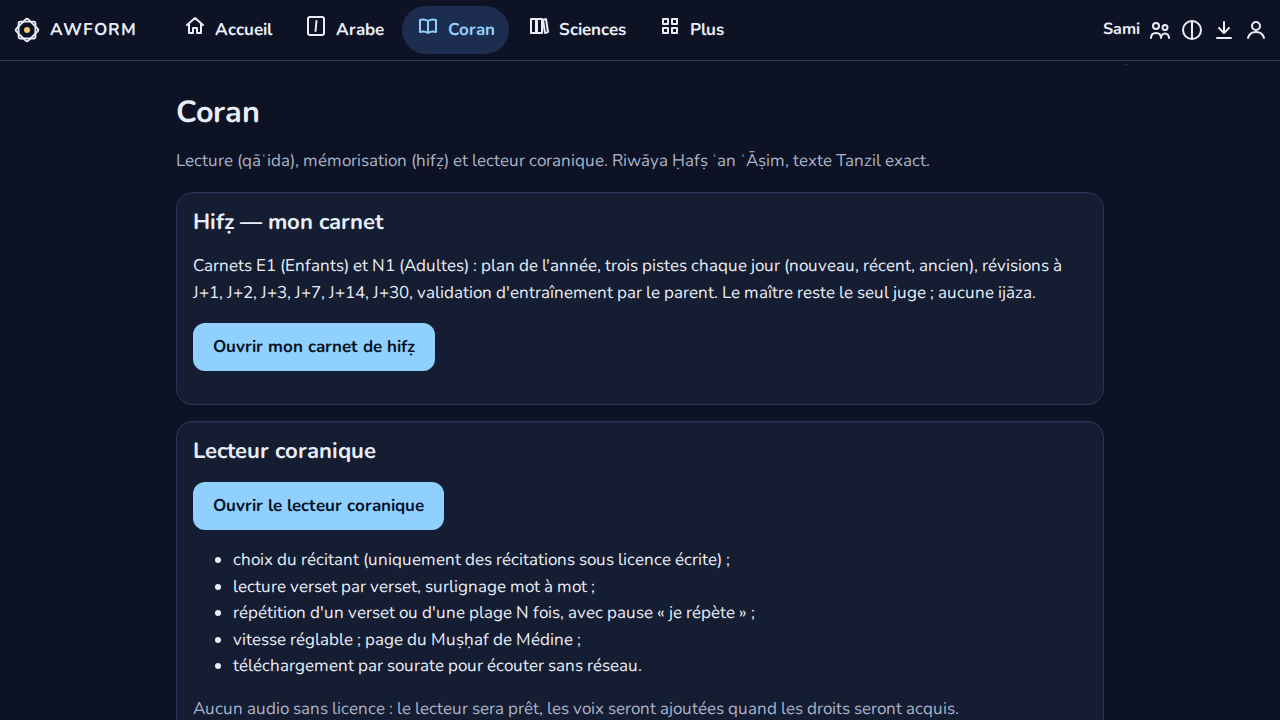
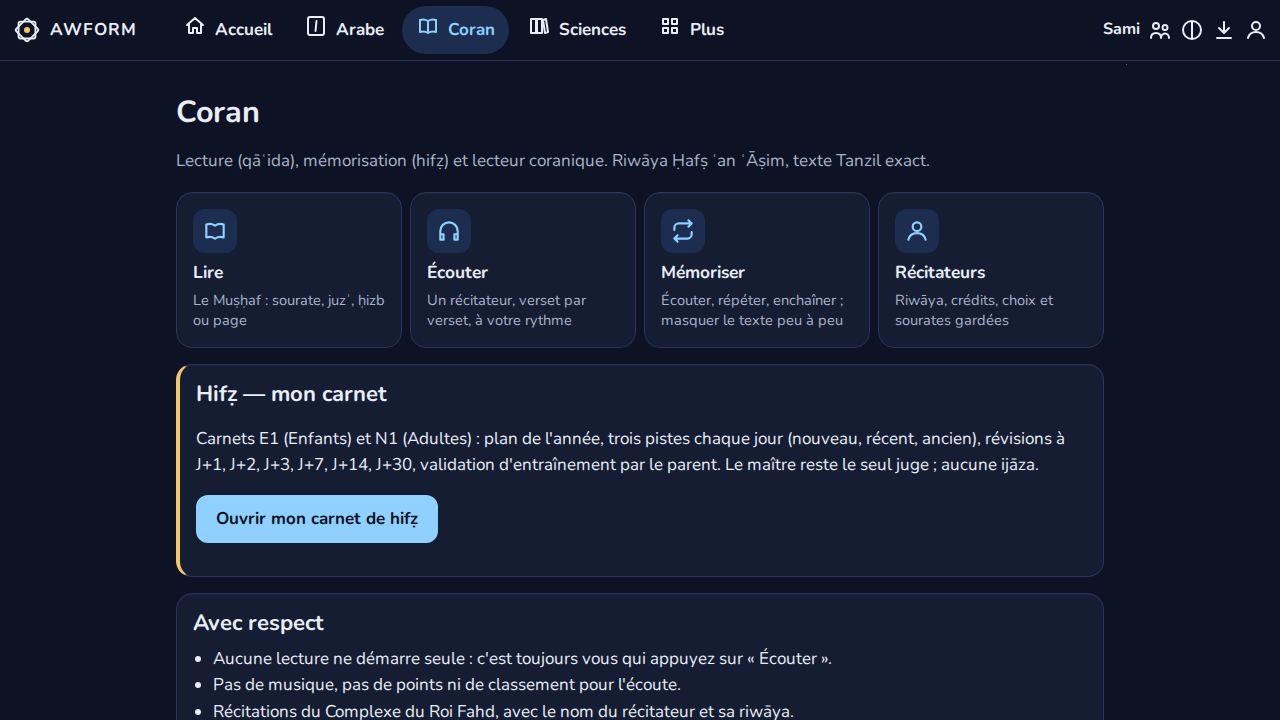
Lot 27 (interface) : test hors ligne attendu correctement, captures de l'espace Coran, budget, journal, écarts, décision D28

Changed region(s): [[0.125, 0.275, 0.8438, 1.0]]

diff --git a/apps/web/e2e/lot27.spec.ts b/apps/web/e2e/lot27.spec.ts
@@ -112,7 +112,7 @@ test('hors ligne : sourate gardée sur l’appareil, listée, puis supprimée', 
   await page.goto('/coran/ecouter?r=essai-hafs&s=114');
   await expect(page.getByTestId('sur-appareil')).toBeVisible();
   await page.getByTestId('jouer').click();
-  expect((await audioState(page)).src).toMatch(/^blob:/);
+  await expect.poll(async () => (await audioState(page)).src).toMatch(/^blob:/);
   await page.getByTestId('arreter-audio').click();
   await page.getByTestId('supprimer-sourate').click();
   await expect(page.getByTestId('garder-sourate')).toBeVisible();
@@ -147,7 +147,11 @@ test.describe('parent', () => {
     await page.goto('/coran/recitateurs');
     const box = page.getByTestId('controle-parent');
     await box.locator('#enfant').selectOption({ label: 'Yanis' });
-    await box.getByTestId('tous-permis').uncheck();
+    await page.waitForLoadState('networkidle');
+    // déjà restreinte lors d'un passage précédent : on part de la liste affichée
+    const tous = box.getByTestId('tous-permis');
+    if (await tous.isChecked()) await tous.uncheck();
+    await box.locator('[data-permis="essai-hafs"]').check();
     await box.locator('[data-permis="essai-qalun"]').uncheck();
     await box.locator('#pin-coran').fill(PARENT_PIN);
     await box.getByTestId('enregistrer-permis').click();

diff --git a/docs/projet/ECARTS.md b/docs/projet/ECARTS.md
@@ -24,7 +24,7 @@ client, voir `DECISIONS_EN_ATTENTE.md`). Les tests marqués « livres » sont sa
 | Certificats | niveau et hifẓ **vérifiables par QR** | **fait** (lot 20) | registre (lot 13) + signature Ed25519 des champs du registre, code aléatoire, QR imprimé, page publique `/verifier/[numero]`, annulation : `apps/api/src/certsign.ts`, `verification.ts`, `lot20.test.ts` (6). Réserve : D8. | — |
 | Papier ↔ application | codes d'activation imprimés dans les livres | **fait** (lot 23) | lots générés par l'administrateur (2FA), codes montrés une fois (CSV pour l'imprimeur), empreinte seule en base, usage unique atomique, caractère de contrôle, anti-essais, révocation, date limite ; niveau entier (leçons et paquet hors ligne) ouvert 12 mois pour la famille (`apps/api/src/activation.ts`, `packages/billing/src/activation.ts`, migration 0023). | — |
 | Paiement | abonnement en euros (prestataire) | **fait (mode simulé)** | `packages/billing`, `apps/api/src/billing.ts`, `lot10.test.ts` (7 tests, sans livres) ; corrections d'audit PAY-1 à PAY-4 (validation atomique, annulation, Stripe asynchrone, droits appliqués avec `AWFORM_DROITS=on` : `audit-pay*.test.ts`). Stripe : code prêt, **compte réel = décision** du client. | — |
-| Audio | selon la décision du client | **partiel** (lot 27 : serveur prêt, fichiers à recevoir) | Coran : récitations du Complexe du Roi Fahd (décision du client) — schéma, outil d'import contrôlé, API (listes, pistes, fichiers avec Range, paquets par sourate, restrictions parent / enseignant, riwāya, retrait immédiat), relais : `apps/api/src/coran-audio.ts`, `packages/db/src/audio/`, tests `lot27.test.ts`, `coran-audio-import.test.ts`, relais `audio.test.ts`. Reste : **fichiers** (serveur du Complexe injoignable), interface de l'espace Coran (autre agent), D20-D24. Audio des leçons (Azure) : interdit ici. | lot 27 |
+| Audio | selon la décision du client | **partiel** (lot 27 : serveur prêt, fichiers à recevoir) | Coran : récitations du Complexe du Roi Fahd (décision du client) — schéma, outil d'import contrôlé, API (listes, pistes, fichiers avec Range, paquets par sourate, restrictions parent / enseignant, riwāya, retrait immédiat), relais : `apps/api/src/coran-audio.ts`, `packages/db/src/audio/`, tests `lot27.test.ts`, `coran-audio-import.test.ts`, relais `audio.test.ts`. **Interface** (branche `lot27-wip`) : espace Coran Lire / Écouter / Mémoriser / Mes récitateurs (`apps/web/src/routes/coran/`, `apps/web/src/lib/quran/`), e2e `lot27.spec.ts` avec des fichiers d'essai non coraniques. Reste : **fichiers** (serveur du Complexe injoignable), D20-D24, D28. Audio des leçons (Azure) : interdit ici. | lot 27 |
 
 ## B. Cahier des charges § 6.2 — lots V1
 

diff --git a/docs/projet/DECISIONS_EN_ATTENTE.md b/docs/projet/DECISIONS_EN_ATTENTE.md
@@ -6,6 +6,7 @@ de développement ; le plus récent en haut.
 
 | # | Date | Lot | Sujet | Question au client | Provisoire retenu |
 |---|---|---|---|---|---|
+| D28 | 04/10/2026 | 27 | Démonstration / hébergement — écoute hors ligne et adresse https | Le cache du navigateur (sourates gardées) et le service worker n'existent qu'en contexte sécurisé : sur la démo ouverte en `http://192.168.50.10`, « Garder cette sourate » répond « connexion sécurisée nécessaire ». Faut-il faire installer l'autorité locale de Caddy sur les appareils de démonstration (https), ou attendre le domaine définitif ? Par ailleurs, la démo n'a **aucune récitation** (fichiers du Complexe non reçus) : les écrans Écouter / Mémoriser y montrent l'état vide ; les captures du dépôt utilisent deux récitateurs d'**essai** (bips). | https recommandé ; aucun fichier d'essai installé sur la démo (jamais présenté comme une récitation). |
 | D27 | 04/10/2026 | 26 | Marque — nom affiché et emblème | L'interface affiche toujours « AWFORM » (clé `app.nom`) alors que le projet s'appelle Awzid : quel nom afficher ? L'emblème provisoire (étoile géométrique à huit branches, point doré) convient-il, ou un logo sera-t-il fourni ? | Nom inchangé (« AWFORM ») ; emblème géométrique provisoire `lib/ui/Brand.svelte` (une ligne à changer). |
 | D26 | 04/10/2026 | 26 | Design — validation de la direction « par public » | Les quatre thèmes (Jardin, Nuit étoilée, Manuscrit moderne, Clair) ont été construits sans la planche de référence (restée sur le PC, absente de la VM) : à comparer avec elle sur la démo (captures `reports/design-v2/apres/`). Titres « manuscrit » en serif du système (aucune police téléchargée) : faut-il embarquer une police de titre libre (≈ 30 à 60 Ko, hors budget JavaScript) ? | Couleurs, rayons, tailles dans `apps/web/src/lib/theme/tokens.ts` (modifiables en une passe, contrastes AA contrôlés par test). |
 | D25 | 04/10/2026 | 26 | Design — thème des adolescents | La « Nuit étoilée » reste sombre même si l'appareil est réglé en clair (c'est son identité) ; une variante claire (« aube ») existe et s'obtient par le bouton d'affichage de l'en-tête. À confirmer, ou suivre le réglage de l'appareil. | Sombre par défaut, « aube » sur choix explicite. |

diff --git a/reports/budget-web.md b/reports/budget-web.md
@@ -2,21 +2,21 @@
 
 | Élément | Poids transféré | Budget |
 |---|---|---|
-| JavaScript + CSS initiaux, page la plus lourde (`/lecons/[id]`, Brotli) | 120.3 Ko | ≤ 150.0 Ko |
-| JavaScript de toutes les pages (Brotli) | 239.6 Ko | ≤ 300.0 Ko |
-| CSS (Brotli) | 20.4 Ko | — |
-| Service worker (Brotli) | 3.6 Ko | — |
+| JavaScript + CSS initiaux, page la plus lourde (`/lecons/[id]`, Brotli) | 122.5 Ko | ≤ 150.0 Ko |
+| JavaScript de toutes les pages (Brotli) | 257.8 Ko | ≤ 300.0 Ko |
+| CSS (Brotli) | 22.5 Ko | — |
+| Service worker (Brotli) | 3.7 Ko | — |
 | Polices WOFF2 (une seule fois, déjà compressées) | 222.6 Ko | ≤ 600.0 Ko |
 
 ## Pages les plus lourdes au premier chargement
 
 | Page | JavaScript + CSS initiaux (Brotli) |
 |---|---|
-| `/lecons/[id]` | 120.3 Ko |
-| `/enseignant/classe/[id]` | 105.4 Ko |
-| `/lectures/[code]` | 104.2 Ko |
-| `/hifz` | 97.2 Ko |
-| `/aujourdhui` | 96.5 Ko |
-| `/enseignant` | 93.3 Ko |
-| `/revisions` | 92.8 Ko |
-| `/suivi` | 91.8 Ko |
+| `/lecons/[id]` | 122.5 Ko |
+| `/enseignant/classe/[id]` | 108.3 Ko |
+| `/lectures/[code]` | 106.3 Ko |
+| `/coran/ecouter` | 101.2 Ko |
+| `/coran/memoriser` | 99.6 Ko |
+| `/hifz` | 99.4 Ko |
+| `/aujourdhui` | 99.0 Ko |
+| `/enseignant` | 95.4 Ko |

diff --git a/CLAUDE.md b/CLAUDE.md
@@ -33,6 +33,9 @@ Lot 18 (branche `lot18-wip`, V1-a) : TERMINÉ — réponses libres corrigées pa
 Lot 19 (branche `lot19-wip`, V1-b) : TERMINÉ — épreuves notées, textes non préparés, remédiation.
 Lot 20 (branche `lot20-wip`, V1-e) : TERMINÉ — certificats signés (Ed25519) et vérifiables par QR.
 Lot 21 (branche `lot21-wip`, V1-f) : PARTIEL (schéma seulement) — arrêté pour les corrections d'audit.
+Lot 27 : interface de l'espace Coran TERMINÉE (branche `lot27-wip` = `lot27-api-wip` + lot 26 + écrans ; `apps/web/src/lib/quran/`).
+Lot 26 (branche `lot26-wip`) : TERMINÉ — design v2 par public (jetons `apps/web/src/lib/theme/tokens.ts`, composants
+`apps/web/src/lib/ui/`) ; toute nouvelle couleur passe par les jetons.
 Lot 27 (branche `lot27-api-wip`) : audio du Coran, partie SERVEUR TERMINÉE (fichiers du Complexe à recevoir ;
 interface par un autre agent) — `apps/api/src/coran-audio.ts`, `packages/db/src/audio/`, EXPLOITATION § 7.
 Corrections d'audit : branche `corrections-audit` — les 73 constats traités (corrigés, ou reportés avec leur
